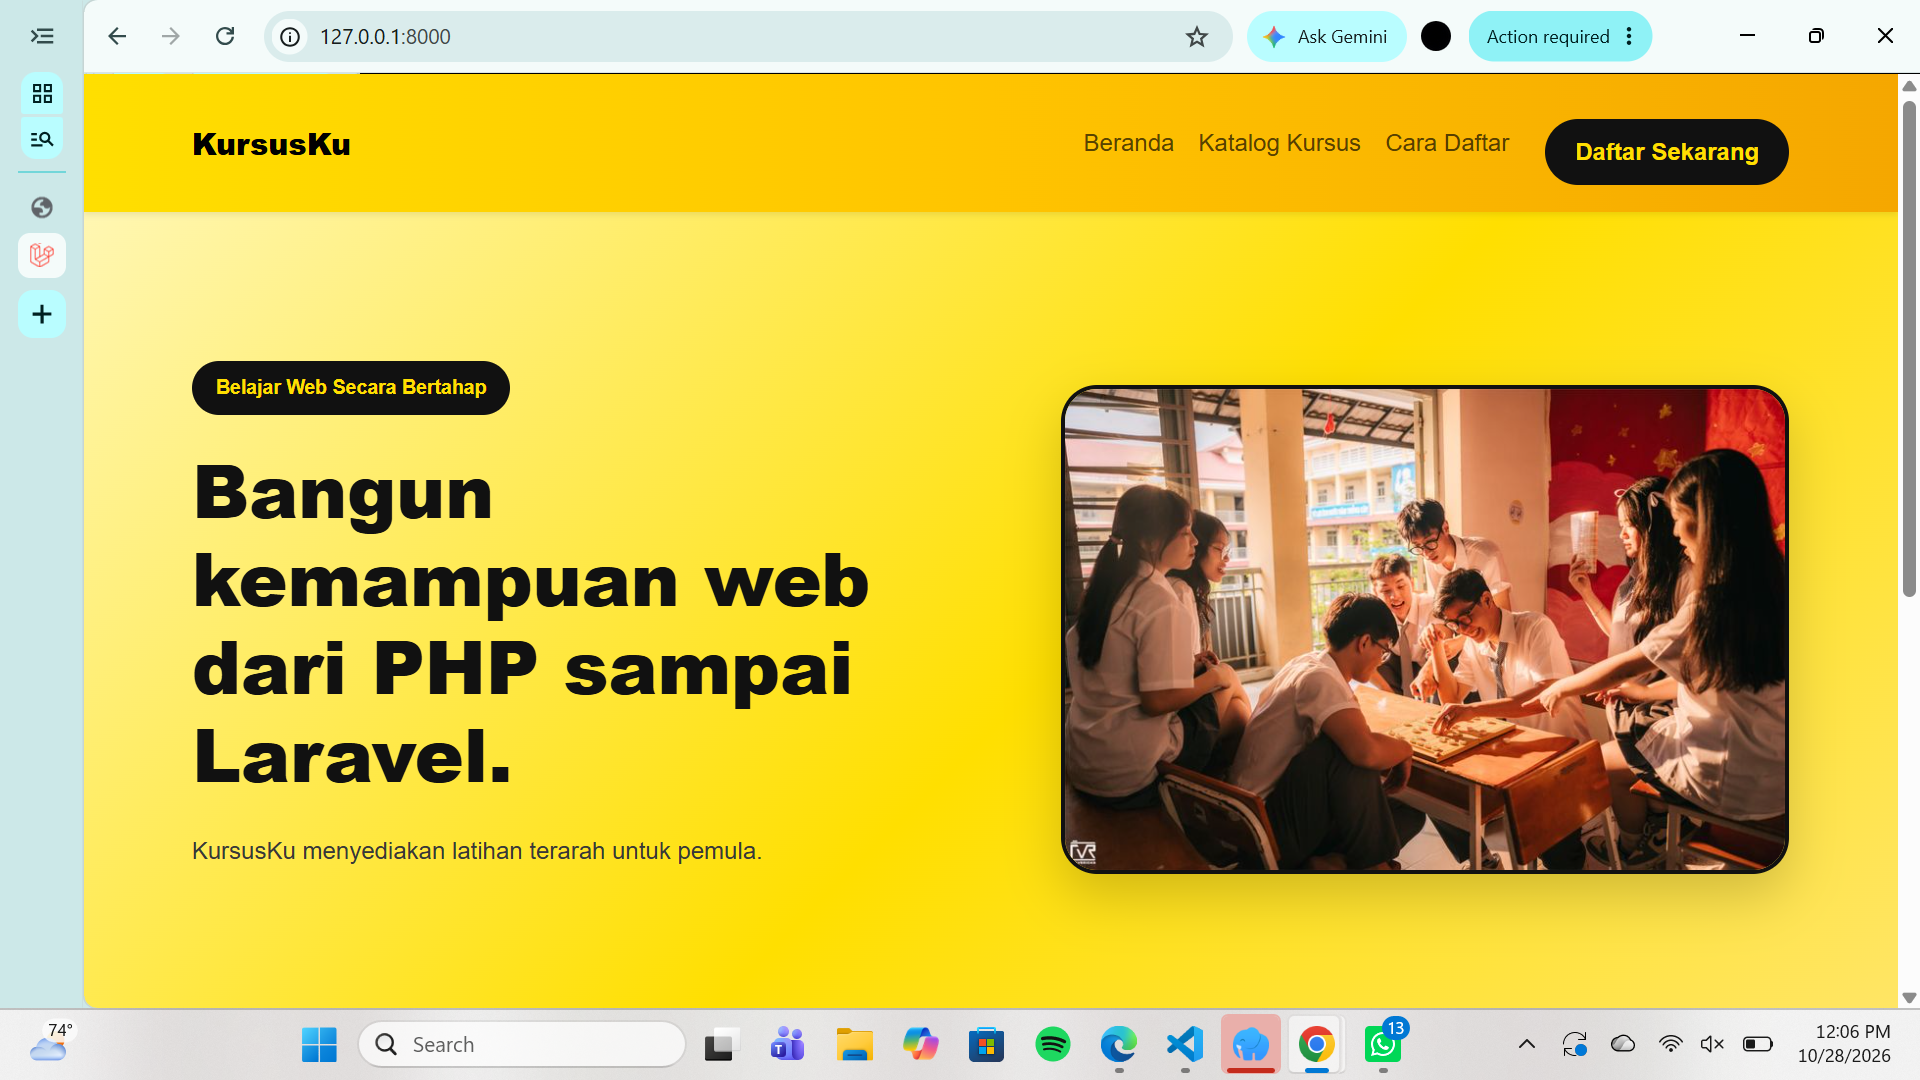
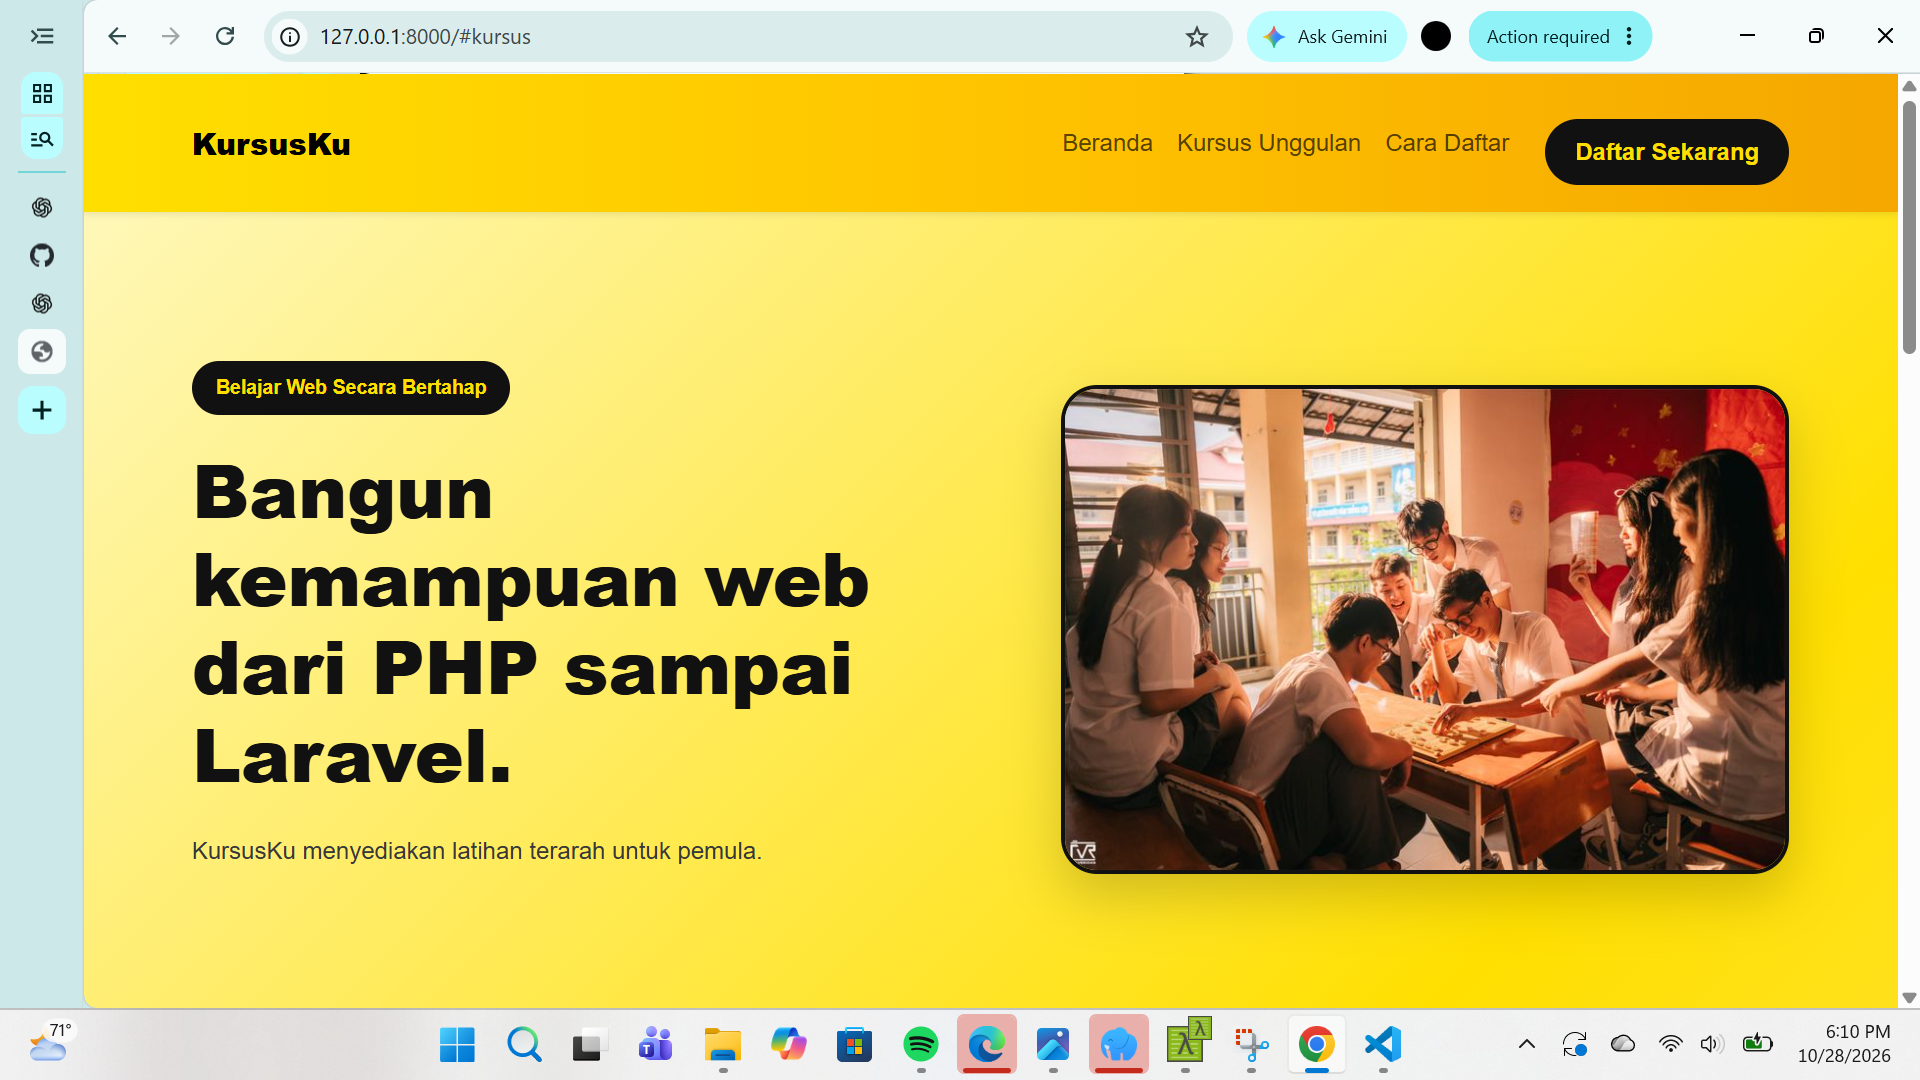
Update

diff --git a/resources/css/app.css b/resources/css/app.css
@@ -8,3 +8,133 @@ body {
 .navbar-brand {
     font-weight: 800;
 }
+
+/* BAGIAN CARA DAFTAR */
+.cara-daftar {
+    padding: 90px 0;
+    background: linear-gradient(135deg, #fff3a0, #ffdc00, #fff0a8);
+    color: #111;
+    scroll-margin-top: 90px;
+}
+
+.cara-header {
+    max-width: 700px;
+    margin: 0 auto 45px;
+    text-align: center;
+}
+
+.label-cara {
+    display: inline-block;
+    padding: 8px 18px;
+    background: #111;
+    color: #ffdc00;
+    border-radius: 30px;
+    font-size: 13px;
+    font-weight: 800;
+    letter-spacing: 1px;
+}
+
+.cara-header h2 {
+    margin-top: 18px;
+    font-size: clamp(28px, 4vw, 42px);
+    font-weight: 900;
+}
+
+.cara-header p {
+    color: #444;
+    font-size: 17px;
+    line-height: 1.7;
+}
+
+.cara-grid {
+    display: grid;
+    grid-template-columns: repeat(4, minmax(0, 1fr));
+    gap: 22px;
+}
+
+.cara-card {
+    padding: 28px 24px;
+    background: #171717;
+    color: #fff;
+    border: 1px solid #333;
+    border-radius: 22px;
+    min-height: 230px;
+    transition: transform 0.25s ease, box-shadow 0.25s ease;
+}
+
+.cara-card:hover {
+    transform: translateY(-7px);
+    box-shadow: 0 12px 25px rgba(0, 0, 0, 0.18);
+}
+
+.nomor-cara {
+    display: flex;
+    align-items: center;
+    justify-content: center;
+    width: 52px;
+    height: 52px;
+    margin-bottom: 22px;
+    background: #ffdc00;
+    color: #111;
+    border-radius: 15px;
+    font-size: 20px;
+    font-weight: 900;
+}
+
+.cara-card h3 {
+    margin-bottom: 12px;
+    color: #ffdc00;
+    font-size: 21px;
+    font-weight: 800;
+}
+
+.cara-card p {
+    margin: 0;
+    color: #eee;
+    line-height: 1.7;
+}
+
+.cara-action {
+    margin-top: 35px;
+    text-align: center;
+}
+
+.cara-action a {
+    display: inline-block;
+    padding: 14px 28px;
+    background: #111;
+    color: #ffdc00;
+    border-radius: 30px;
+    text-decoration: none;
+    font-weight: 800;
+    transition: 0.2s ease;
+}
+
+.cara-action a:hover {
+    background: #333;
+    transform: translateY(-2px);
+}
+
+html {
+    scroll-behavior: smooth;
+}
+
+@media (max-width: 992px) {
+    .cara-grid {
+        grid-template-columns: repeat(2, minmax(0, 1fr));
+    }
+}
+
+@media (max-width: 576px) {
+    .cara-daftar {
+        padding: 60px 0;
+    }
+
+    .cara-grid {
+        grid-template-columns: 1fr;
+    }
+
+    .cara-card {
+        min-height: auto;
+    }
+}

diff --git a/resources/views/home.blade.php b/resources/views/home.blade.php
@@ -23,7 +23,7 @@
         
     </section>
 
-    <section class="courses">
+    <section class="courses" id="kursus">
         <h2>Kursus Unggulan</h2>
 
         <div class="course-grid">
@@ -38,6 +38,63 @@
             @endforeach
         </div>
     </section>
+    
+<section class="cara-daftar" id="cara-daftar">
+    <div class="container">
+        <div class="cara-header">
+            <span class="label-cara">MULAI BELAJAR</span>
+            <h2>Cara Daftar Kursus</h2>
+            <p>
+                Ikuti langkah mudah berikut untuk memulai perjalanan
+                belajar web bersama KursusKu.
+            </p>
+        </div>
+
+        <div class="cara-grid">
+            <div class="cara-card">
+                <div class="nomor-cara">01</div>
+                <h3>Pilih Kursus</h3>
+                <p>
+                    Lihat katalog kursus dan pilih materi yang
+                    sesuai dengan kebutuhanmu.
+                </p>
+            </div>
+
+            <div class="cara-card">
+                <div class="nomor-cara">02</div>
+                <h3>Isi Formulir</h3>
+                <p>
+                    Klik tombol Daftar Sekarang, kemudian isi
+                    data diri dan pilihan kursus dengan benar.
+                </p>
+            </div>
+
+            <div class="cara-card">
+                <div class="nomor-cara">03</div>
+                <h3>Periksa Data</h3>
+                <p>
+                    Pastikan informasi pendaftaran sudah benar
+                    sebelum mengirim formulir.
+                </p>
+            </div>
+
+            <div class="cara-card">
+                <div class="nomor-cara">04</div>
+                <h3>Mulai Belajar</h3>
+                <p>
+                    Ikuti informasi pendaftaran dan bersiaplah
+                    untuk meningkatkan kemampuan web kamu.
+                </p>
+            </div>
+        </div>
+
+        <div class="cara-action">
+            <a href="{{ route('enrollments.create') }}">
+                Daftar Sekarang →
+            </a>
+        </div>
+    </div>
+</section>
 
     <footer>
         <div class="container">

diff --git a/app/Http/Controllers/HomeController.php b/app/Http/Controllers/HomeController.php
@@ -24,6 +24,16 @@ class HomeController extends Controller
                 'name' => 'Laravel Fundamental',
                 'description' => 'Belajar route, controller, Blade, dan MVC.'
             ],
+            [
+                'code' => 'UI-01',
+                'name' => 'UI/UX Design',
+                'description' => 'Belajar wireframe, prototipe, dan desain antarmuka website.',
+            ],
+            [
+                'code' => 'DB-01',
+                'name' => 'MySQL Dasar',
+                'description' => 'Belajar database, tabel, dan query SQL dasar.',
+            ],
         ];
 
         return view('home', compact('siteName', 'featured'));

diff --git a/resources/views/partials/navbar.blade.php b/resources/views/partials/navbar.blade.php
@@ -20,7 +20,7 @@
                 </li>
 
                 <li class="nav-item">
-                    <a class="nav-link" href="/#katalog">Katalog Kursus</a>
+                    <a class="nav-link" href="/#kursus">Kursus Unggulan</a>
                 </li>
 
                 <li class="nav-item">
